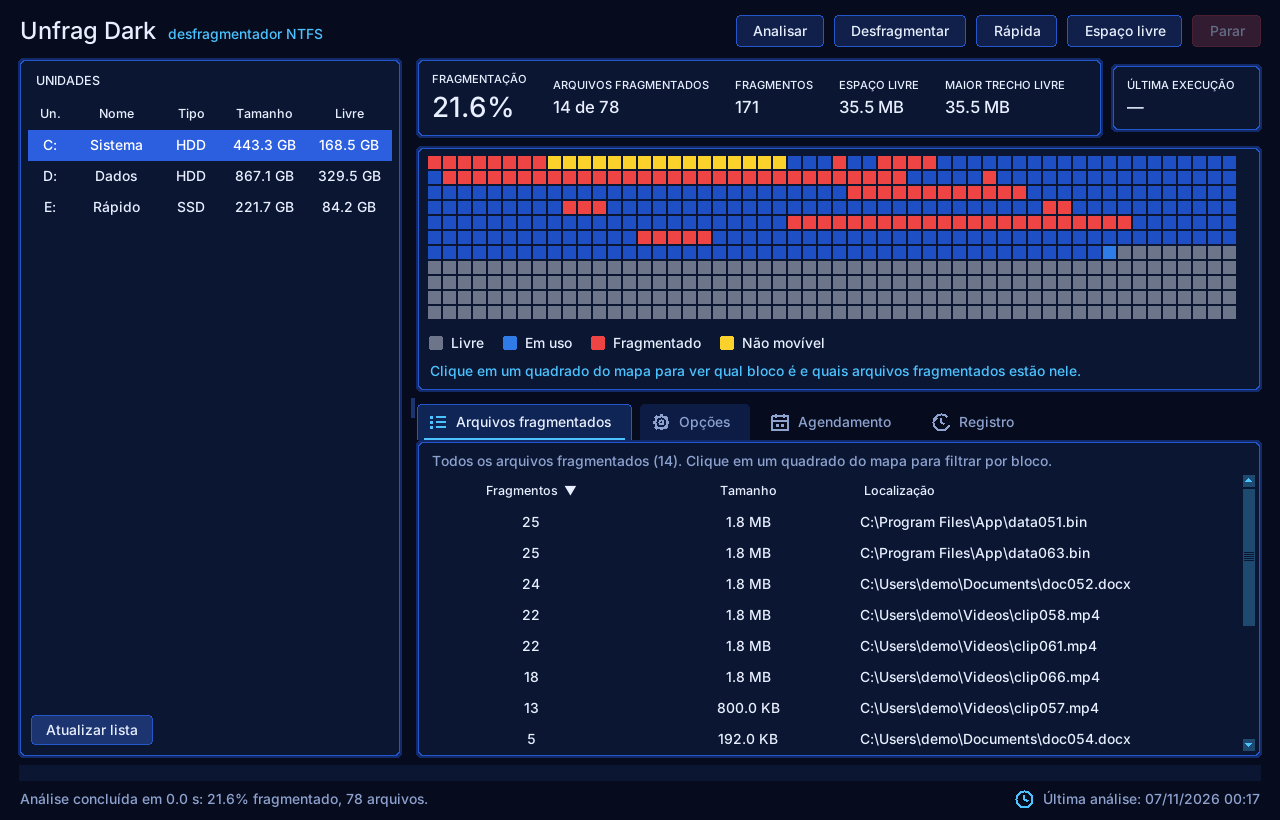
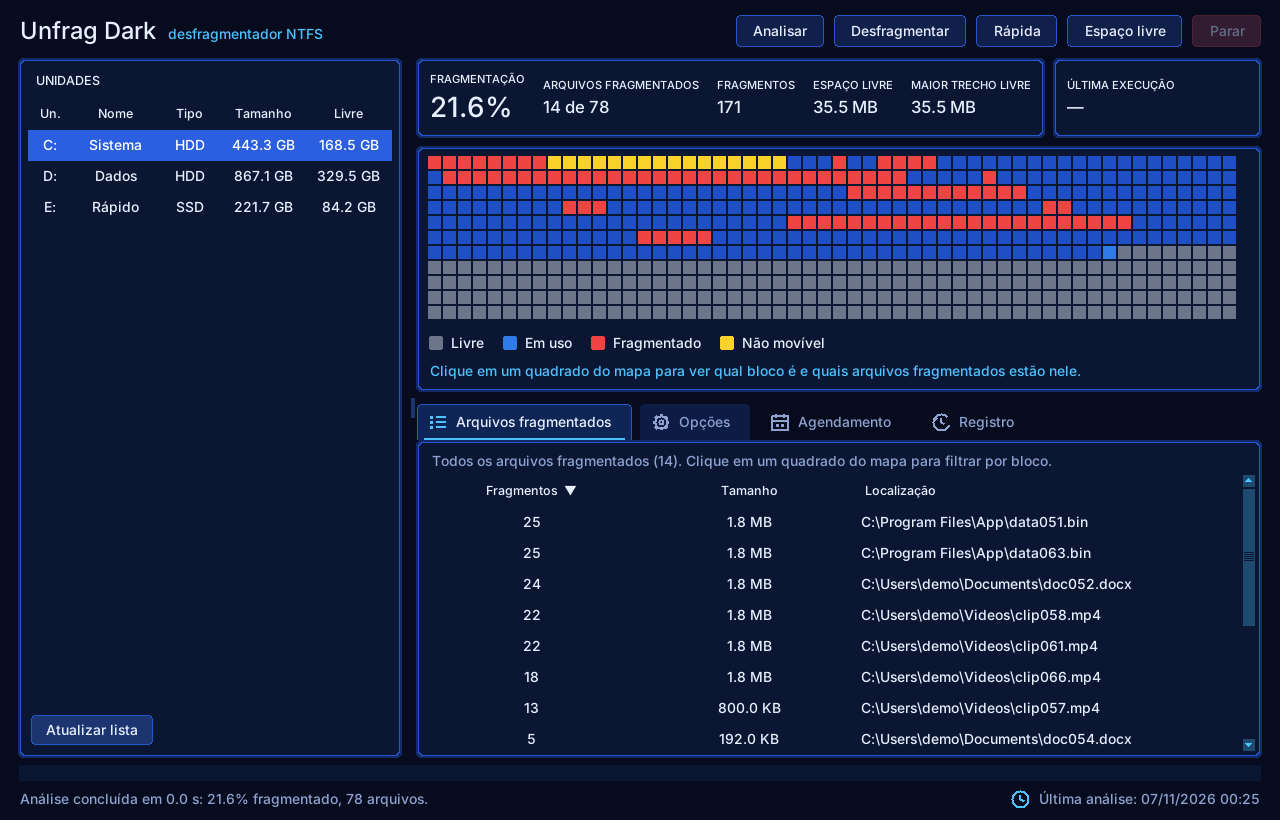
Uniformiza a altura dos cartões de estatísticas e dá espaço à última execução; v0.1.9
Claude-Session: https://claude.ai/code/session_01HBMELiZvNgmfTNszBkAw8x

diff --git a/src/unfrag/gui.py b/src/unfrag/gui.py
@@ -553,16 +553,20 @@ class App:
 
         row = ttk.Frame(right, style="Root.TFrame")
         row.pack(fill="x")
-        c1 = self._card(row)
+        c1 = self._card(row, pad=(12, 12))
         c1.pack(side="left", padx=(0, 8))
-        c2 = self._card(row)
-        c2.pack(side="left")
+        c2 = self._card(row, pad=(12, 12))
+        # os dois cartões de estatísticas têm a mesma altura; o da última execução ocupa o resto da largura
+        c1.pack_configure(fill="y")
+        c2.pack(side="left", fill="both", expand=True)
+        for _c in (c1, c2):
+            _c.inner.rowconfigure(0, weight=1)
         for i, (key, lbl) in enumerate((("frag", "Fragmentação"), ("fragfiles", "Arquivos fragmentados"),
                                         ("frags", "Fragmentos"), ("free", "Espaço livre"),
                                         ("largest", "Maior trecho livre"), ("moved", "Última execução"))):
             host = c1.inner if i < 5 else c2.inner
             f = ttk.Frame(host)
-            f.grid(row=0, column=i, padx=(0, 22), sticky="w")
+            f.grid(row=0, column=i, padx=(0, 14 if i < 4 else 0), sticky="w")
             ttk.Label(f, text=lbl.upper(), foreground=C["fg"], font=("Segoe UI Semibold", 8)).pack(anchor="w")
             ttk.Label(f, textvariable=self.stats[key], style="Big.TLabel" if i == 0 else "Panel.TLabel",
                       font=("Segoe UI Semibold", 20) if i == 0 else ("Segoe UI Semibold", 12)).pack(anchor="w")

diff --git a/src/unfrag/__init__.py b/src/unfrag/__init__.py
@@ -1,3 +1,3 @@
 """Unfrag Dark - desfragmentador NTFS de código aberto com tema escuro."""
 
-__version__ = "0.1.8"
+__version__ = "0.1.9"
